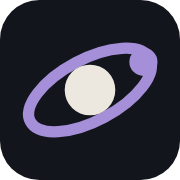
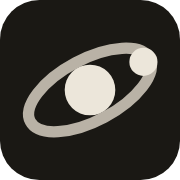
Seasonal palettes with light/dark toggle
Keep the theme script and all styles in <head> so the page paints in the
right colors. Favicon goes monochrome since the accent now changes by season.

Claude-Session: https://claude.ai/code/session_01Ppve7aA2MxnoLmhJDb7k4W

Changed region(s): [[0.1111, 0.2222, 0.8889, 0.7778]]

diff --git a/index.html b/index.html
@@ -5,7 +5,8 @@
 <meta name="viewport" content="width=device-width, initial-scale=1, viewport-fit=cover">
 <title>Ricardo Carmona · Client success, end to end</title>
 <meta name="description" content="For 11+ years my work has been what happens after a client says yes: making sure they get the result they came for, so they stay and grow.">
-<meta name="theme-color" content="#12151B">
+<meta name="theme-color" content="#19160F" media="(prefers-color-scheme: dark)">
+<meta name="theme-color" content="#F3ECE1" media="(prefers-color-scheme: light)">
 <link rel="canonical" href="https://ricardocarmona.io/">
 <link rel="icon" href="/favicon.svg" type="image/svg+xml">
 <link rel="icon" href="/favicon-32.png" sizes="32x32" type="image/png">
@@ -21,6 +22,50 @@
 <meta name="twitter:title" content="Ricardo Carmona · Client success, end to end">
 <meta name="twitter:description" content="For 11+ years my work has been what happens after a client says yes: making sure they get the result they came for, so they stay and grow.">
 <meta name="twitter:image" content="https://ricardocarmona.io/og.png">
+<script>(()=>{const r=document.documentElement;let m=null;try{m=localStorage.getItem('rc-theme')}catch(e){};r.setAttribute('data-mode',m||(matchMedia('(prefers-color-scheme: light)').matches?'light':'dark'));
+/* the palette follows the visitor's season (northern hemisphere); ?season=winter|spring|summer|autumn previews one */
+const q=new URLSearchParams(location.search).get('season'),mo=new Date().getMonth(),S=['winter','spring','summer','autumn'];
+r.setAttribute('data-season',S.includes(q)?q:S[Math.floor(((mo+1)%12)/3)])})();</script>
+<style>
+/* seasonal palettes: same structure, one accent for text and lines, one band color; light mode deepens the text accent for contrast */
+:root[data-season="winter"]{--ground:#141619;--bone:#E8E6E1;--accent:#7D93A8;--band:#7D93A8;--on-accent:#141619}
+:root[data-season="winter"][data-mode="light"]{--ground:#EEEFEE;--bone:#1A1C20;--accent:#46607A;--band:#8EA2B5;--on-accent:#1A1C20}
+:root[data-season="spring"]{--ground:#15171C;--bone:#ECE8EC;--accent:#9DBEDB;--band:#E6AFBE;--on-accent:#15171C}
+:root[data-season="spring"][data-mode="light"]{--ground:#F4F0F2;--bone:#1C1B22;--accent:#3D6A90;--band:#EDB9C6;--on-accent:#1C1B22}
+:root[data-season="summer"]{--ground:#17151A;--bone:#F2EAE2;--accent:#F0913F;--band:#F29A86;--on-accent:#17151A}
+:root[data-season="summer"][data-mode="light"]{--ground:#F8F1E8;--bone:#221A16;--accent:#AD4F12;--band:#F3A07A;--on-accent:#221A16}
+:root[data-season="autumn"]{--ground:#19160F;--bone:#EEE5D7;--accent:#DD8A3E;--band:#B5733F;--on-accent:#19160F}
+:root[data-season="autumn"][data-mode="light"]{--ground:#F3ECE1;--bone:#221C15;--accent:#9C4F14;--band:#D98A45;--on-accent:#221C15}
+</style>
+<style>
+/* matte: flat color only, no glows */
+.neb::before{display:none}
+.disc{box-shadow:0 0 0 2px color-mix(in srgb,var(--accent) 45%,transparent),0 24px 48px -20px rgba(0,0,0,.6)!important;background:color-mix(in srgb,var(--band) 22%,var(--ground))!important}
+.btn{box-shadow:var(--shadow-sm)!important}
+.sys circle[fill^="url"]{display:none}
+.band{background:var(--band)!important}
+.tfeat{background:var(--panel)!important}
+#totop{box-shadow:0 0 0 4px var(--ground),0 6px 14px rgba(0,0,0,.35)!important}
+/* theme toggle */
+.tools-r{display:flex;gap:10px;align-items:center}
+#theme{width:42px;height:42px;border-radius:50%;border:2px solid var(--line);background:transparent;color:var(--bone);display:grid;place-items:center;cursor:pointer;padding:0}
+#theme:hover{border-color:var(--accent)}
+#theme svg{width:20px;height:20px}
+#theme .sun{display:none}
+:root[data-mode="dark"] #theme .sun{display:block}:root[data-mode="dark"] #theme .moon{display:none}
+/* light mode: paper ground, ink text, deeper accent for text; the band keeps the base accent with ink on it */
+:root[data-mode="light"]{
+  color-scheme:light;--stars:.55;
+  --shadow-sm:0 1px 2px rgba(30,24,16,.12),0 4px 10px -4px rgba(30,24,16,.18);
+  --shadow:0 2px 6px rgba(30,24,16,.10),0 16px 32px -16px rgba(30,24,16,.25);
+}
+:root[data-mode="light"] .num b{text-shadow:none}
+@media (prefers-reduced-motion: reduce){.atom .e1{cx:300px;cy:160px}.atom .e2{cx:20px;cy:160px}.atom .e3{cx:160px;cy:108px}}
+:root[data-mode="light"] .atom .e1,:root[data-mode="light"] .atom .e2,:root[data-mode="light"] .atom .e3,:root[data-mode="light"] .planet,:root[data-mode="light"] .sys .pl,:root[data-mode="light"] .sys .star{filter:drop-shadow(0 3px 4px rgba(30,24,16,.22))}
+@media (max-width:480px){:root .mark{font-size:.95rem;white-space:nowrap}:root .top a.cta{padding:9px 12px;font-size:.88rem;white-space:nowrap}#theme{width:38px;height:38px}.tools-r{gap:8px}}
+:root[data-mode="light"] .photo img{filter:drop-shadow(0 14px 18px rgba(30,24,16,.25))}
+:root[data-mode="light"] body::after{opacity:.05;mix-blend-mode:multiply}
+</style>
 <link rel="preconnect" href="https://fonts.googleapis.com">
 <link rel="preconnect" href="https://fonts.gstatic.com" crossorigin>
 <link rel="stylesheet" href="https://fonts.googleapis.com/css2?family=Rubik:ital,wght@0,400;0,500;0,600;0,700;0,800;1,500&family=Figtree:wght@400;500;600&display=swap">
@@ -28,7 +73,7 @@
 /* Concept: Gravity. Ricardo is the center of mass; customers are bodies in orbit. Churn is a body drifting off, and his job is the pull that brings it back.
    Three colors: night ground, bone, one blue. Grain over everything so the dark reads as material, not a void. */
 :root{
-  --ground:#12151B; --bone:#ECE8DF; --accent:#A58FD8;
+  --ground:#141619; --bone:#E8E6E1; --accent:#7D93A8; --band:#7D93A8; --on-accent:#141619; --stars:1;
   --bone-2:color-mix(in srgb,var(--bone) 62%,var(--ground));
   --line:color-mix(in srgb,var(--bone) 14%,var(--ground));
   --panel:color-mix(in srgb,var(--accent) 16%,var(--ground));
@@ -100,8 +145,8 @@ p{margin:0}
 .atom{width:100%;max-width:420px;height:auto;display:block;margin-inline:auto;overflow:visible}
 .atom .a1{stroke:var(--bone)}.atom .a2{stroke:var(--accent)}.atom .a3{stroke:color-mix(in srgb,var(--bone) 45%,var(--ground))}
 .atom .e1,.t1{fill:var(--bone);background:var(--bone)}.atom .e2,.t2{fill:var(--accent);background:var(--accent)}.atom .e3,.t3{fill:var(--ground);stroke:var(--bone);stroke-width:4;background:var(--ground);border:4px solid var(--bone)}
-.atom .core{fill:var(--accent);filter:drop-shadow(0 0 18px var(--accent))}
-.atom .coret{font-family:"Rubik",system-ui,sans-serif;font-weight:700;font-size:14px;letter-spacing:1.5px;fill:var(--ground);dominant-baseline:central}
+.atom .core{fill:var(--band)}
+.atom .coret{font-family:"Rubik",system-ui,sans-serif;font-weight:700;font-size:14px;letter-spacing:1.5px;fill:var(--on-accent);dominant-baseline:central}
 .traits{display:grid;gap:36px}
 .trait{display:grid;grid-template-columns:22px minmax(0,1fr);gap:18px}
 .tdot{width:22px;height:22px;border-radius:50%;margin-top:6px}
@@ -110,7 +155,7 @@ p{margin:0}
 @media (max-width:860px){.threegrid{grid-template-columns:1fr}.atom{max-width:300px}}
 
 /* band: the one loud moment */
-.band{margin-inline:calc(50% - 50vw);padding-inline:max(16px,calc(50vw - var(--wrap)/2));padding-block:clamp(72px,10vw,120px);background:var(--accent);color:var(--ground);position:relative;overflow:hidden}
+.band{--ground:var(--on-accent);margin-inline:calc(50% - 50vw);padding-inline:max(16px,calc(50vw - var(--wrap)/2));padding-block:clamp(72px,10vw,120px);background:var(--band);color:var(--ground);position:relative;overflow:hidden}
 .band .eyebrow{color:var(--ground)}
 .band h2{color:var(--ground);max-width:14ch}
 .band .bandhead{display:grid;grid-template-columns:minmax(0,1fr) auto;gap:32px;align-items:center;margin-bottom:48px}
@@ -203,7 +248,7 @@ details[open] .tog::after{transform:translate(-50%,-50%) rotate(0)}
 .contact h2 em{font-style:italic;font-weight:500;color:var(--accent)}
 .contact .mail{font:600 clamp(1.15rem,3vw,1.8rem)/1.2 var(--display);word-break:break-word}
 .row{display:flex;flex-wrap:wrap;gap:12px 28px;align-items:center}
-.btn{font:500 1rem/1 var(--display);color:var(--ground);background:var(--accent);border:0;padding:15px 22px;border-radius:99px;cursor:pointer;transition:transform .2s,background-color .2s}
+.btn{font:500 1rem/1 var(--display);color:var(--on-accent);background:var(--band);border:0;padding:15px 22px;border-radius:99px;cursor:pointer;transition:transform .2s,background-color .2s}
 .btn:hover{background:var(--bone)}
 footer{font:400 .8rem/1.5 var(--body);color:var(--bone-2);padding-bottom:32px}
 
@@ -273,18 +318,19 @@ footer{font:400 .8rem/1.5 var(--body);color:var(--bone-2);padding-bottom:32px}
 </style>
 </head>
 <body>
-
-
 <div class="top">
   <a class="mark" href="#" aria-label="Ricardo Carmona, back to top">
     <svg viewBox="0 0 24 24" aria-hidden="true"><ellipse cx="12" cy="12" rx="11" ry="4.5" fill="none" stroke="var(--accent)" stroke-width="2.6" transform="rotate(-18 12 12)"/><circle cx="12" cy="12" r="5" fill="var(--bone)"/></svg>
     Ricardo Carmona
   </a>
-  <a class="cta" href="#contact">Get in touch</a>
+  <div class="tools-r">
+    <button type="button" id="theme" aria-label="Switch light or dark mode"><svg class="moon" viewBox="0 0 24 24" aria-hidden="true"><path d="M20 14.5A8 8 0 0 1 9.5 4a8 8 0 1 0 10.5 10.5z" fill="none" stroke="currentColor" stroke-width="2.2" stroke-linejoin="round"/></svg><svg class="sun" viewBox="0 0 24 24" aria-hidden="true"><circle cx="12" cy="12" r="4.5" fill="none" stroke="currentColor" stroke-width="2.2"/><path d="M12 2v2.5M12 19.5V22M2 12h2.5M19.5 12H22M4.9 4.9l1.8 1.8M17.3 17.3l1.8 1.8M4.9 19.1l1.8-1.8M17.3 6.7l1.8-1.8" stroke="currentColor" stroke-width="2.2" stroke-linecap="round"/></svg></button>
+    <a class="cta" href="#contact">Get in touch</a>
+  </div>
 </div>
 
 <canvas id="sky" aria-hidden="true"></canvas>
-<button type="button" id="totop" aria-label="Back to top"><svg viewBox="0 0 24 24" aria-hidden="true"><path d="M12 19V6M6 11.5L12 5.5l6 6" fill="none" stroke="var(--ground)" stroke-width="2.6" stroke-linecap="round" stroke-linejoin="round"/></svg></button>
+<button type="button" id="totop" aria-label="Back to top"><svg viewBox="0 0 24 24" aria-hidden="true"><path d="M12 19V6M6 11.5L12 5.5l6 6" fill="none" stroke="var(--on-accent)" stroke-width="2.6" stroke-linecap="round" stroke-linejoin="round"/></svg></button>
 
 <main>
   <header class="hero neb">
@@ -491,7 +537,7 @@ footer{font:400 .8rem/1.5 var(--body);color:var(--bone-2);padding-bottom:32px}
   const back=sys.querySelector('.back'),front=sys.querySelector('.front');
   const bx=back.getContext('2d'),fx=front.getContext('2d');
   const css=getComputedStyle(document.documentElement);
-  const ACC=css.getPropertyValue('--accent').trim()||'#79A6DC',BONE=css.getPropertyValue('--bone').trim()||'#ECE8DF';
+  let ACC,BONE;const tok=()=>{const c=getComputedStyle(document.documentElement);ACC=c.getPropertyValue('--accent').trim()||'#A58FD8';BONE=c.getPropertyValue('--bone').trim()||'#ECE8DF'};tok();addEventListener('resize',tok);
   const still=!matchMedia('(prefers-reduced-motion: no-preference)').matches;
   const TILT=-0.3, RINGS=[0.44,0.54,0.64], RMAX=0.67;
   let S=0,W=0,dpr=1;
@@ -598,12 +644,13 @@ b.addEventListener('click',()=>{
   const c=document.getElementById('sky'); if(!c) return;
   const x=c.getContext('2d');
   const still=matchMedia('(prefers-reduced-motion: reduce)');
-  const accent=getComputedStyle(document.documentElement).getPropertyValue('--accent').trim()||'#A58FD8';
+  let accent='#A58FD8',bone='#ECE8DF',dim=1;
   // three layers: far stars barely move, near stars drift more as you scroll
   const LAYERS=[{k:.02,n:.55,r:[.5,.9],a:.45},{k:.06,n:.3,r:[.8,1.3],a:.6},{k:.13,n:.15,r:[1.1,1.9],a:.8}];
   let W=0,H=0,dpr=1,stars=[],arcs=[],raf=0;
   let seed=7; const rnd=()=>((seed=(seed*16807)%2147483647)/2147483647);
   function build(){
+    const cs=getComputedStyle(document.documentElement);accent=cs.getPropertyValue('--accent').trim()||accent;bone=cs.getPropertyValue('--bone').trim()||bone;dim=parseFloat(cs.getPropertyValue('--stars'))||1;
     dpr=Math.min(devicePixelRatio||1,2); W=innerWidth; H=innerHeight;
     c.width=W*dpr; c.height=H*dpr; x.setTransform(dpr,0,0,dpr,0,0);
     seed=7; stars=[];
@@ -623,17 +670,16 @@ b.addEventListener('click',()=>{
     x.lineWidth=1.5;
     for(const o of arcs){
       x.save(); x.translate(o.cx,o.cy-((sy*o.k)%H)); x.rotate(o.t);
-      x.strokeStyle='rgba(236,232,223,.05)';
-      x.beginPath(); x.ellipse(0,0,o.rx,o.ry,0,0,6.283); x.stroke(); x.restore();
+      x.strokeStyle=bone;x.globalAlpha=.06*dim;
+      x.beginPath(); x.ellipse(0,0,o.rx,o.ry,0,0,6.283); x.stroke(); x.restore(); x.globalAlpha=1;
     }
     for(const s of stars){
       let y=(s.y-sy*s.k)%H; if(y<0) y+=H;
       const tw=still.matches?1:.65+.35*Math.sin(t*.001*s.s+s.p);
-      x.globalAlpha=s.a*tw;
-      x.fillStyle=s.tint?accent:'#ECE8DF';
-      if(s.glow){x.shadowColor=accent;x.shadowBlur=6}
+      x.globalAlpha=s.a*tw*dim;
+      x.fillStyle=s.tint?accent:bone;
+      
       x.beginPath(); x.arc(s.x,y,s.r,0,6.283); x.fill();
-      if(s.glow){x.shadowBlur=0}
     }
     x.globalAlpha=1;
   }
@@ -650,7 +696,7 @@ b.addEventListener('click',()=>{
 </script>
 <style>
 /* back to top: a small orbiting arrow that shows up once you're past the hero */
-#totop{position:fixed;right:max(16px,env(safe-area-inset-right));bottom:max(20px,env(safe-area-inset-bottom));z-index:40;width:48px;height:48px;padding:0;border-radius:50%;cursor:pointer;
+#totop{background:var(--band)!important;position:fixed;right:max(16px,env(safe-area-inset-right));bottom:max(20px,env(safe-area-inset-bottom));z-index:40;width:48px;height:48px;padding:0;border-radius:50%;cursor:pointer;
   background:var(--accent);border:0;box-shadow:0 0 0 4px var(--ground),0 8px 20px rgba(0,0,0,.55);
   display:grid;place-items:center;opacity:0;visibility:hidden;transition:opacity .25s ease,visibility 0s linear .25s}
 #totop.show{opacity:1;visibility:visible;transition:opacity .25s ease}
@@ -679,6 +725,16 @@ b.addEventListener('click',()=>{
   document.querySelectorAll('details').forEach(d=>d.addEventListener('toggle',on));
   const up=e=>{e.preventDefault();scrollTo({top:0,behavior:still.matches?'auto':'smooth'})};
   b.addEventListener('click',up);document.querySelector('.top .mark')?.addEventListener('click',up);
+})();
+</script>
+<script>
+/* light/dark: follows the device until you pick, then remembers the pick */
+(()=>{const r=document.documentElement,mq=matchMedia('(prefers-color-scheme: light)');
+  let saved=null;try{saved=localStorage.getItem('rc-theme')}catch(e){}
+  const apply=m=>{r.setAttribute('data-mode',m);dispatchEvent(new Event('resize'))};
+  apply(saved||(mq.matches?'light':'dark'));
+  mq.addEventListener?.('change',e=>{let s=null;try{s=localStorage.getItem('rc-theme')}catch(_){};if(!s)apply(e.matches?'light':'dark')});
+  document.getElementById('theme')?.addEventListener('click',()=>{const m=r.getAttribute('data-mode')==='light'?'dark':'light';try{localStorage.setItem('rc-theme',m)}catch(e){};apply(m)});
 })();
 </script>
 
